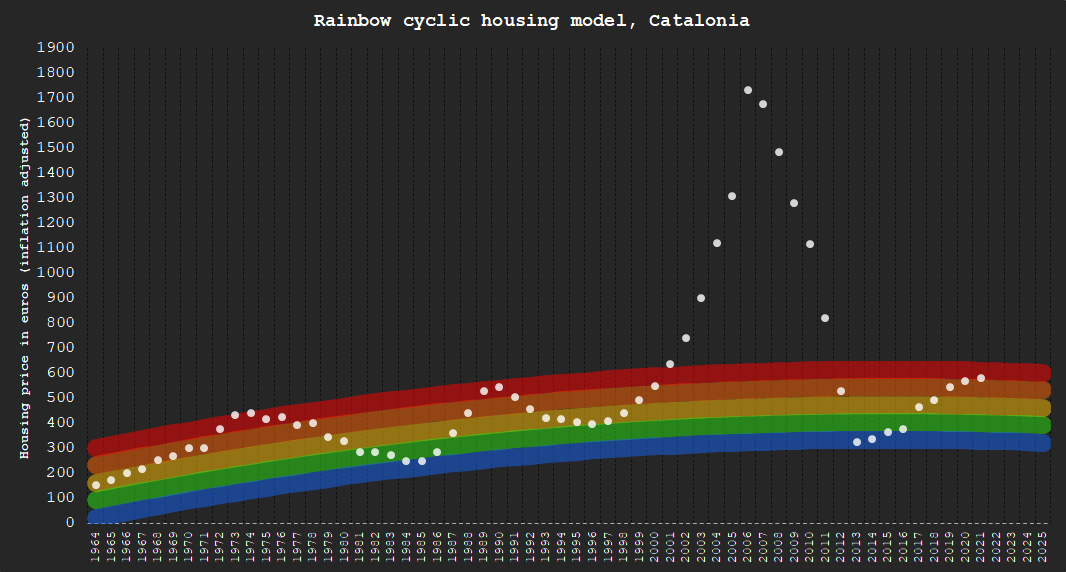
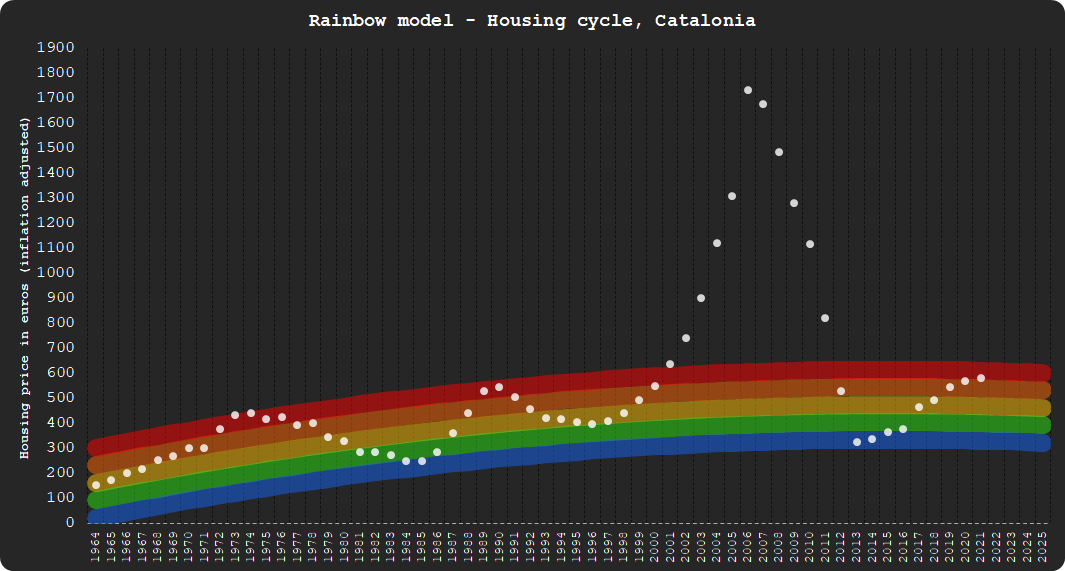
785

diff --git a/pages/posts/rainbow.md b/pages/posts/rainbow.md
@@ -1,26 +1,39 @@
 ---
-title: Rainbow cyclic price model
+title: Rainbow model, the housing cycles
 date: 2021-08-01
-description: Model to predict real-estate cycles and prices. Showing data on the evolution of housing prices (inflation-adjusted), crossed with the demographic curve (rainbow).
+description: Model to predict real-estate cycles. Showing data on the evolution of housing prices (inflation-adjusted), crossed with the demographic curve (rainbow).
 tag: Price, Demography
 author: Galetaire
 ---
 
 import Image from 'next/image'
 
-# Rainbow cyclic price model, Catalonia
+# Rainbow model - Housing cycles, Catalonia
 
 <Image
   src="/images/rainbow.png"
   alt="Reload chart"
-  width={1066}
-  height={572}
+  width={1065}
+  height={571}
   priority
   className="next-image"
 />
 
-- **Inflation**: Under construction.
+- **Red** = highly overbought.
+- **Orange** = overbought.
+- **Yellow** = equilibrium.
+- **Green** = oversold.
+- **Blue** = highly oversold.
 
 # Interpretation and observations
 
-Under construction
+The Raibow curve describes a demographic channel in order to evaluate overbought or oversold conditions in the price of housing.
+
+<Image
+  src="/images/rainbowsource.png"
+  alt="Reload chart"
+  width={1001}
+  height={516}
+  priority
+  className="next-image"
+/>
